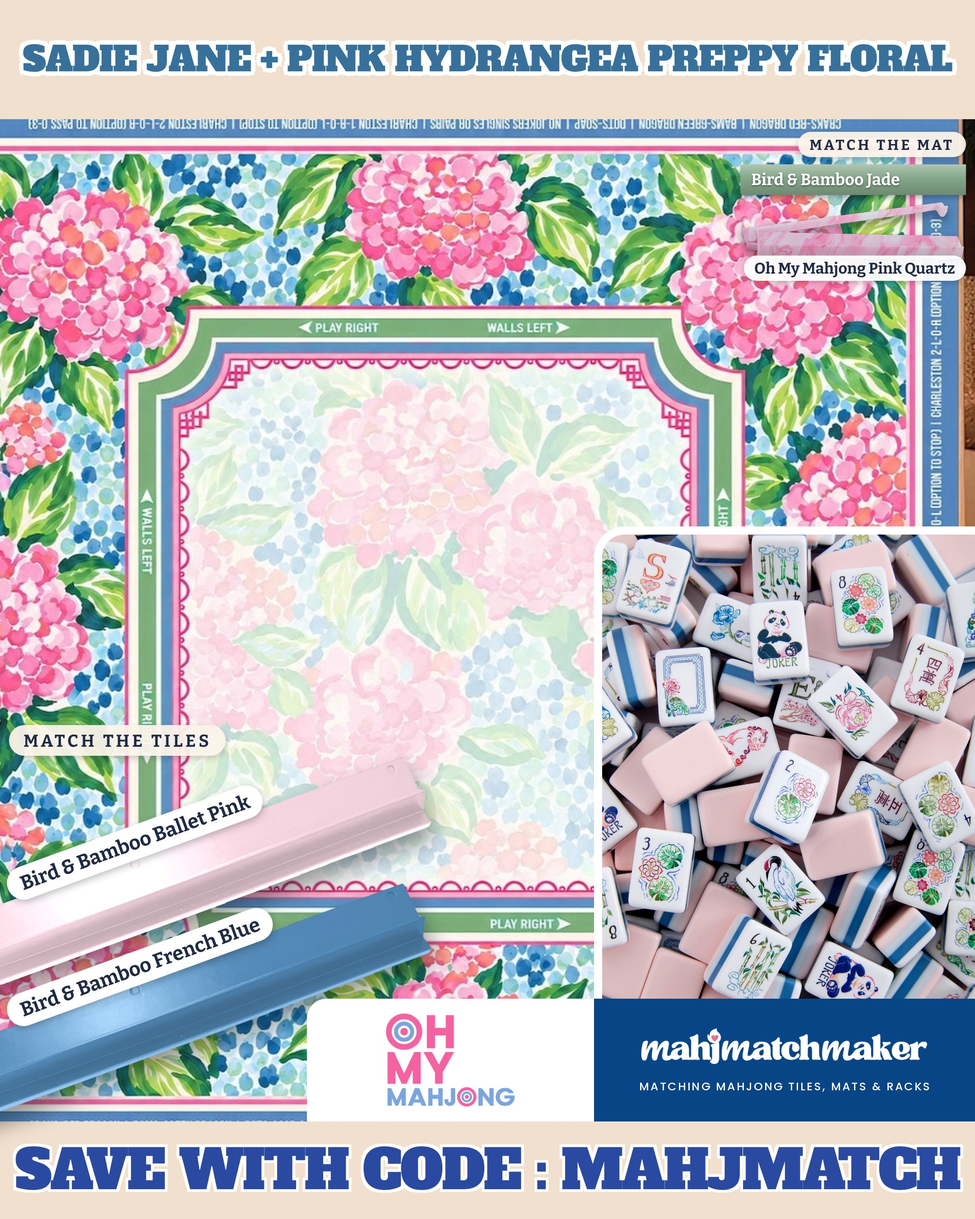
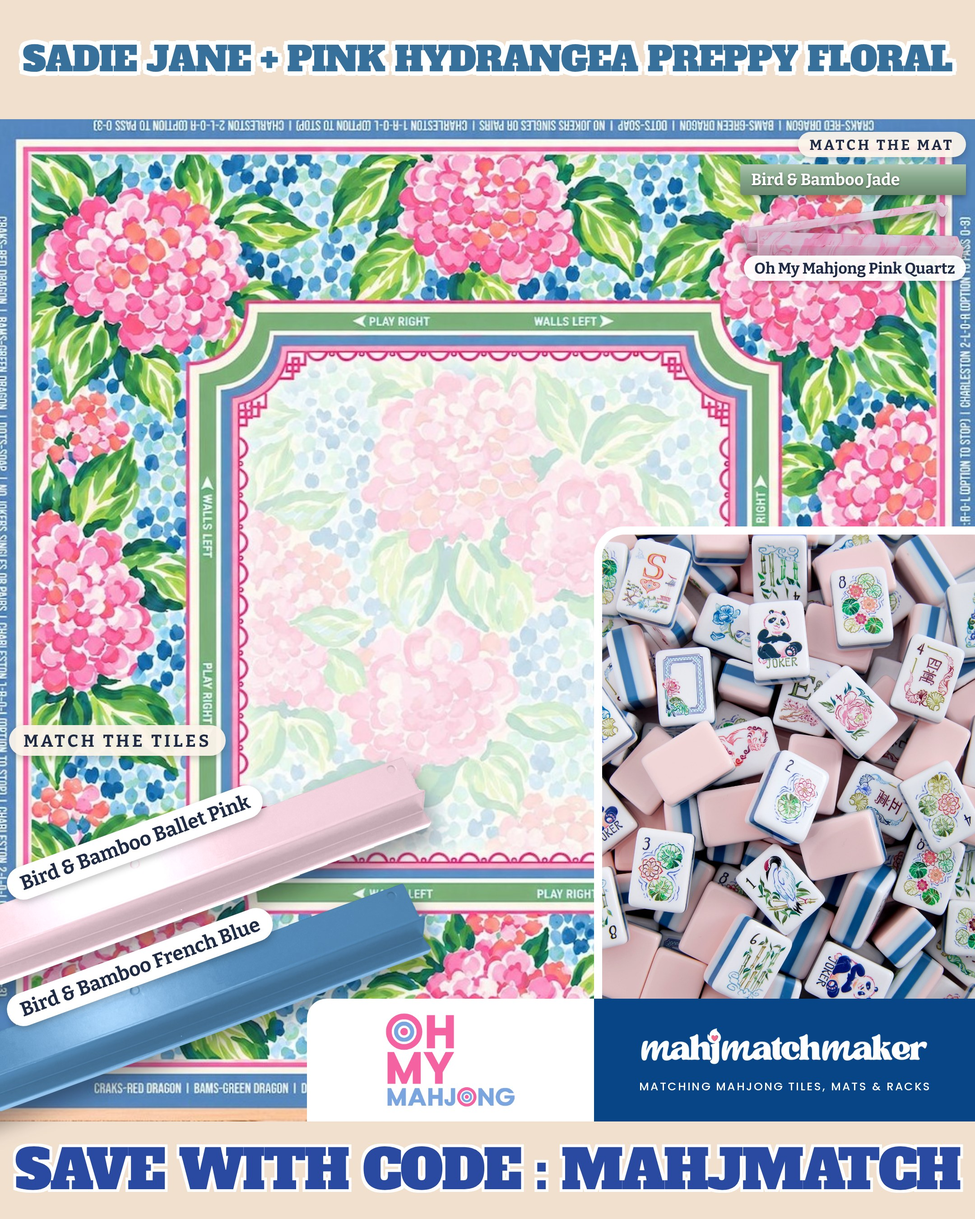
Card mat edge check (white margin / folded corner); Sadie Jane Merriment + Pink Hydrangea crops fixed, review v10
Claude-Session: https://claude.ai/code/session_01QxwYQtmWcAr4s5uYJYP3mA

diff --git a/scripts/checks/card_mat_edge_check.py b/scripts/checks/card_mat_edge_check.py
@@ -1,0 +1,45 @@
+"""Album card mat photo check (Tiffany Nov 21-22 2026, Sadie Jane review): the mat must fill the card to its corners.
+Flags, per card of a BUILT card spec (<work>/spec.json from scripts/albumcard/specs/*_build.py; each card has 'mat' = the cropped mat as a data URI):
+  margin  an edge strip (outer 2%) that is mostly blank white/near-white while the mat inside is not: a white border or cut-out edge
+  fold    a corner block (14%) that is mostly near-black while the mat is not a dark mat: a folded-over corner showing the backing
+It cannot see hands, props or racks covering the key colour: those are still a LOOK at the contact sheet.
+Allow list: config/card-mat-edge-ok.json {"ok": {"<card file>": "reason"}}.
+Usage: python3 scripts/checks/card_mat_edge_check.py <work>/spec.json [more specs]   (exit 1 on any flag)"""
+import sys, json, io, base64, os
+import numpy as np
+from PIL import Image
+REPO = os.path.abspath(os.path.join(os.path.dirname(os.path.abspath(__file__)), '..', '..'))
+
+
+def check(img):
+    a = np.asarray(img.convert('RGB').resize((400, 400))).astype(int)
+    white = (a.min(axis=2) > 236) & ((a.max(axis=2) - a.min(axis=2)) < 14)
+    dark = (a.max(axis=2) < 118) & ((a.max(axis=2) - a.min(axis=2)) < 20)   # black / charcoal backing, no hue
+    out = []
+    inner_white = white[60:340, 60:340].mean()
+    for nm, strip in (('top', white[:8]), ('bottom', white[-8:]), ('left', white[:, :8]), ('right', white[:, -8:])):
+        if strip.mean() > .7 and inner_white < .45: out.append(f'margin {nm} ({strip.mean():.0%} blank)')
+    blks = {'top-left': dark[:120, :120].mean(), 'top-right': dark[:120, -120:].mean(), 'bottom-left': dark[-120:, :120].mean(), 'bottom-right': dark[-120:, -120:].mean()}
+    for nm, v in blks.items():   # one corner charcoal while the other three are not = the backing showing
+        if v > .28 and max(x for k, x in blks.items() if k != nm) < .08 and dark.mean() < .2: out.append(f'fold {nm} ({v:.0%} dark)')
+    return out
+
+
+def run(specs):
+    okp = os.path.join(REPO, 'config/card-mat-edge-ok.json')
+    ok = json.load(open(okp))['ok'] if os.path.exists(okp) else {}
+    bad = []
+    for sp in specs:
+        for c in json.load(open(sp))['cards']:
+            m = c.get('mat') or ''
+            if not m.startswith('data:'): continue
+            f = check(Image.open(io.BytesIO(base64.b64decode(m.split(',', 1)[1]))))
+            if f and c['file'] not in ok: bad.append(f"{c['file']}: " + '; '.join(f))
+    return bad
+
+
+if __name__ == '__main__':
+    bad = run(sys.argv[1:])
+    if bad:
+        print(f'CARD MAT EDGE CHECK FAIL ({len(bad)}):'); [print('  ' + b) for b in bad]; sys.exit(1)
+    print('CARD MAT EDGE CHECK PASS')

diff --git a/docs/OVERDUE.md b/docs/OVERDUE.md
@@ -154,7 +154,7 @@
 - since 2026-11-21 | ALBUM ORDER (Tiffany 10:20pm, CLAUDE.md 'ALBUMS: FINISH BEFORE STARTING'): 1 Sadie Jane (Wed Nov 25): ROUND 2 out Sun 12:20am (60 cards incl. her 18 adds + 2 Mahj & Moon from her links); waiting on her round-2 taps + the pink rack name (Shell Pink is wrong) (db review/sadie-jane on B9DYMfdvxG3473xRz1rzKk). 2 Deco Indigo (A54V27DoUEgpgKitTFVjk8, db review/deco-indigo) + 3 Deco Mulberry (FAiTL4JE8X4sjekeK8VJuE, db review/deco-mulberry): last-round pages sent Sat 10:55pm, asks on hq/now ten. WHEN SHE TAPS DONE on any: scripts/albumreview/read_review.py, final cards (apply review_notes_nov17 rack rules on the Deco ones), album page staged hidden, launch kit, slot = COMPLETION STATE, then update HQ. Still owed on Deco: by-sight of the ~30 mats added to FYM since Nov 17. 4 Origami Timber (waiting on her). 5 Sunday Blues (Claude: cards for new finds, faces, review page). 6 holiday sections. Start nothing else. | Main
 
 
-- since 2026-11-21 | ALBUM CARD PHOTO CHECKS (Tiffany's Sadie Jane notes Nov 21 night: white border, a hand in the photo, cut-out edge, racks covering the mat's key colour): add to scripts/albumcard/gen2.py or album_gate a check that every card's mat crop has no white/blank margin on any edge (edge-strip test) and LOOK at every new card's contact sheet for hands/props before a review page goes out; run it on Deco Indigo, Deco Mulberry, Origami Timber, Sunday Blues cards and fix. | Main
+- since 2026-11-21 | ALBUM CARD PHOTO CHECKS: check BUILT Sun 5am: `python3 scripts/checks/card_mat_edge_check.py <work>/spec.json` (white/blank edge strip = margin; one charcoal corner = folded corner; hands/props still need a LOOK). Sadie Jane: Merriment + Pink Hydrangea crops fixed and published (page v10); only the 2 Amazon folded-corner cards still flag (line below). STILL TO DO: (a) call it from gen2.py / album_gate so a build refuses; (b) Origami Timber flags 6 cards with a white margin on the bottom + left (Marigold, Sunday Rattan, SI Ralph, Midnight Garden, Palomino, Jade: mat-corner crops that include the white background) and YOLO Crane and Moon (possible folded corner): fix the crops, look at the two dark-mat false positives (Bam Bird Hunter Green), publish only when her Origami db doc is done or >2h old; (c) run on Deco Indigo + Sunday Blues builds. Deco Mulberry: only the Hunter Green false positive. | Main
 
 
 - since 2026-11-22 | SHOPMY LINKS for Sadie Jane Etsy finds (Tiffany 12:02am, needs her Chrome, after the album): make commissionable ShopMy links (shopmy-etsy) for Etsy 4527255793 (Mahj & Moon Pink & Blue Grandmillennial), 4599338148 (Mahj & Moon Luxury Faux Leather Chinoiserie Pastel Floral), 4610389308 (CraftinMy Blue and Pink Floral), 4497703295 (Mahj & Moon Chinoiserie Pastel Floral); ShopMy would not give her a new link on some = probably already linked: search our ShopMy shop for each first (any board), else use the ShopMy button. Record links in the album record bringins + config. Also Amazon B0H8HDRX87, B0H49Q8KMS, Etsy MahjAura 4587877778 if she hearts them. | Main
